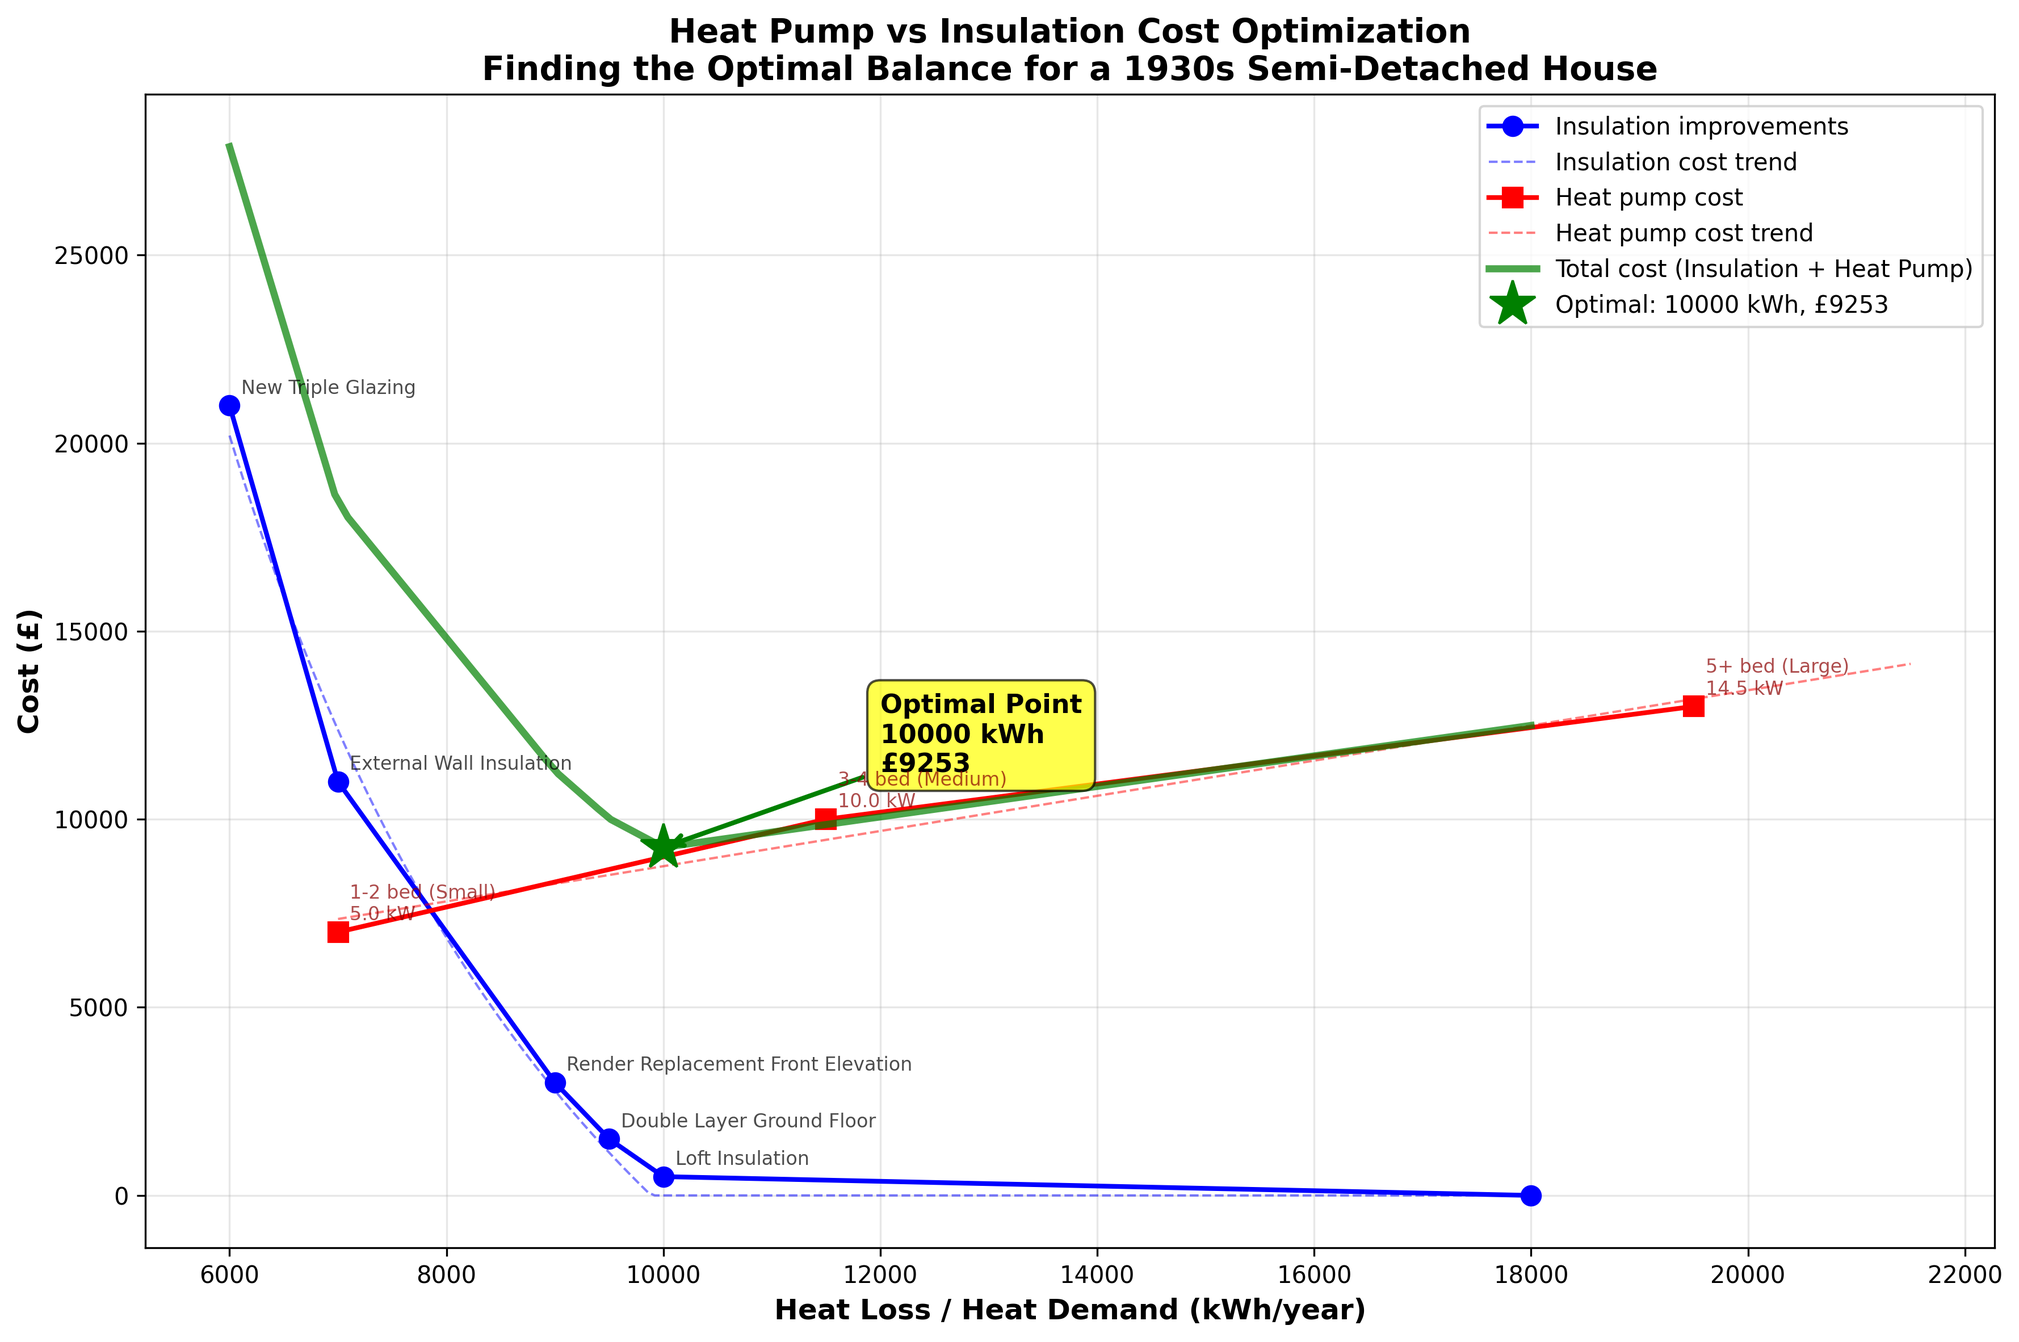
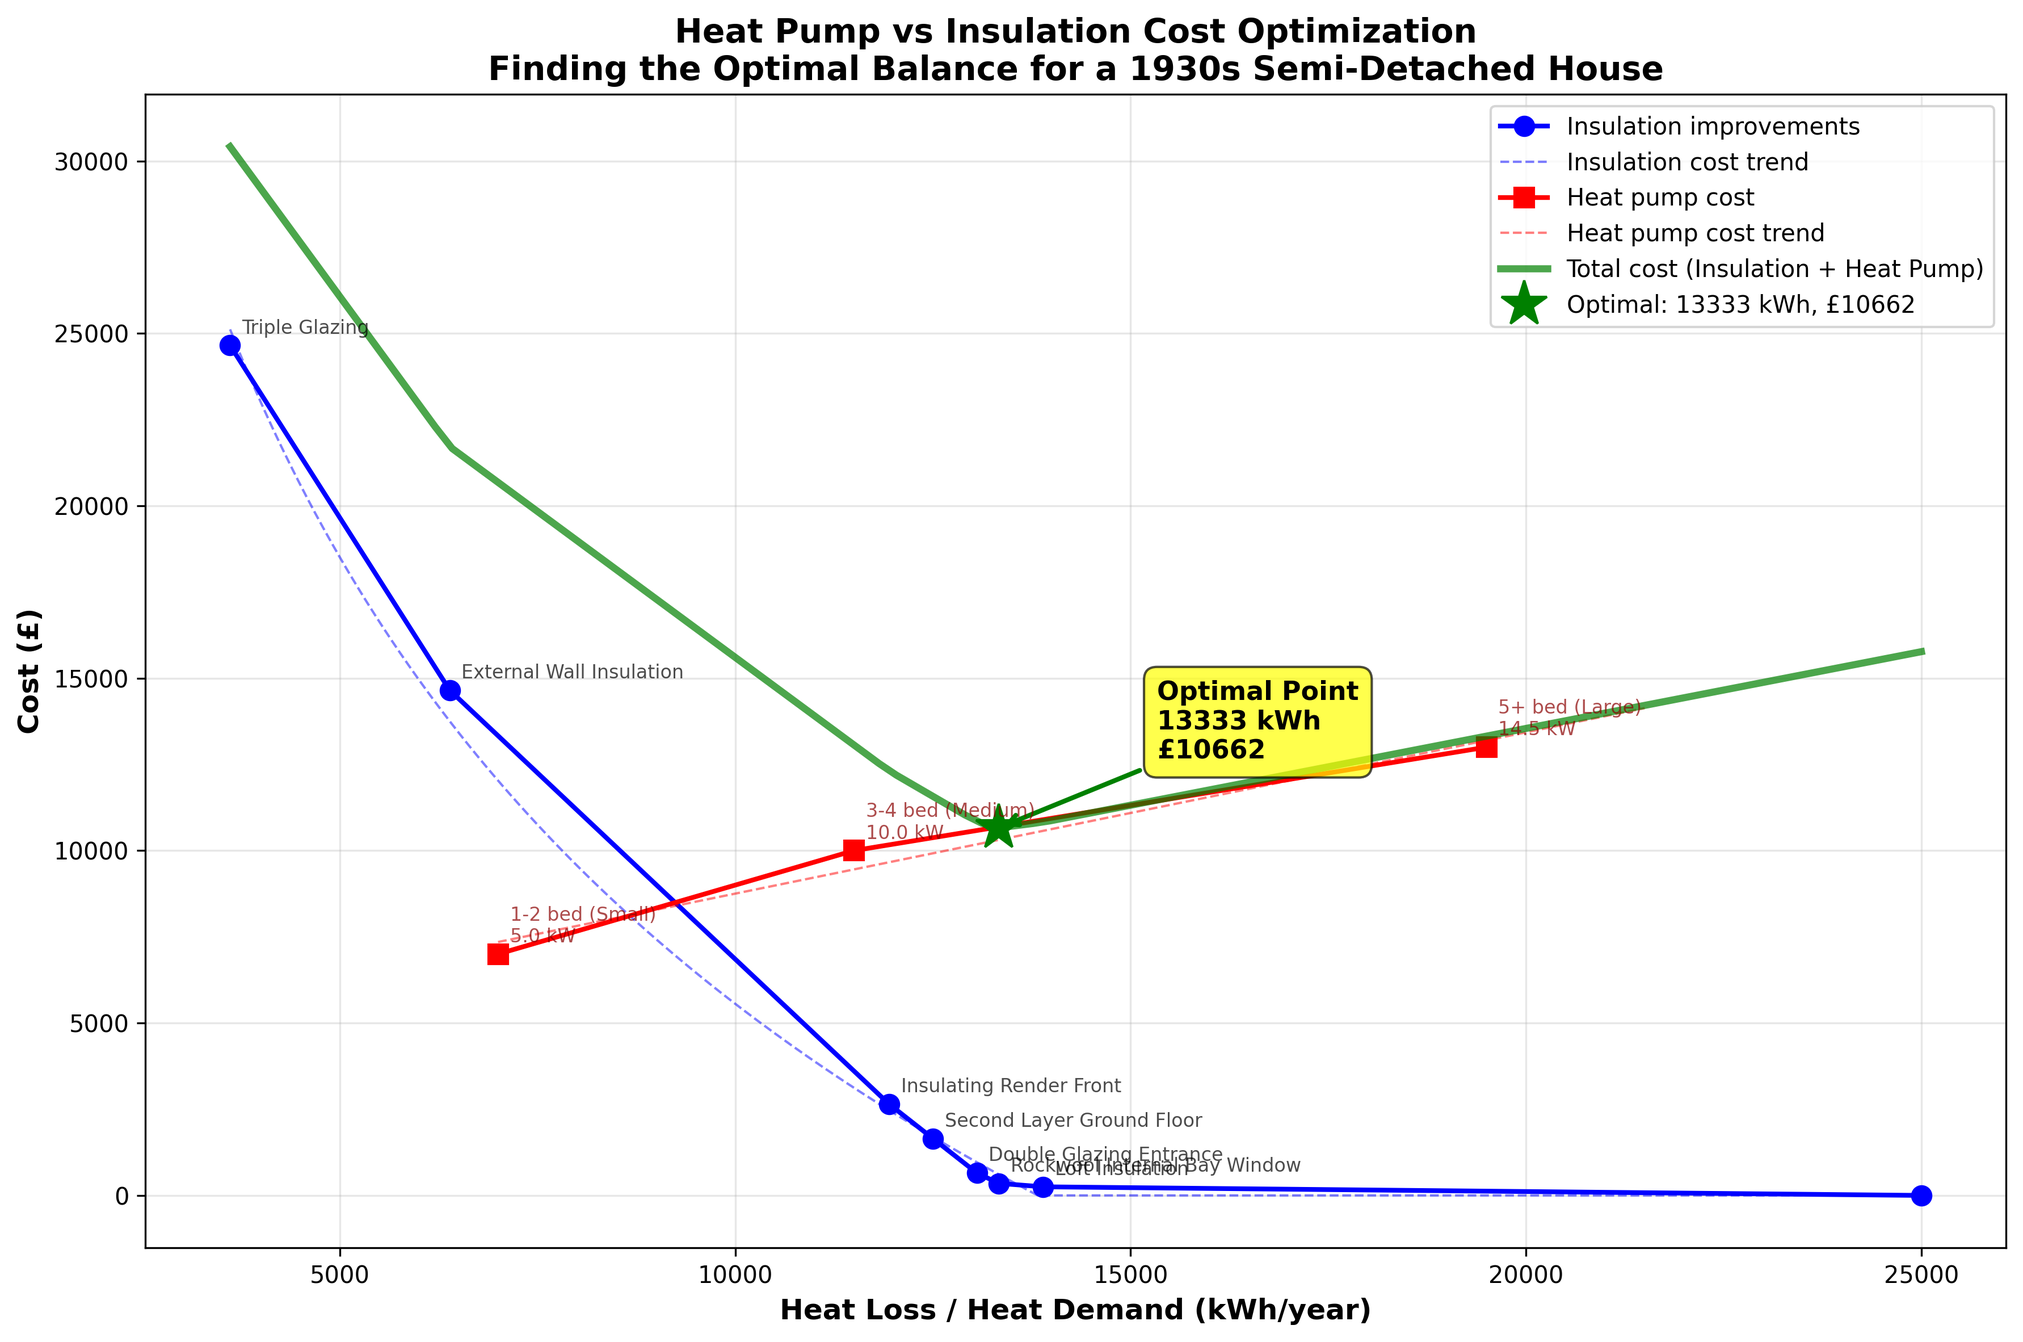
Updated home improvements and units

diff --git a/src/heat_pump_cost/cost_calculator.py b/src/heat_pump_cost/cost_calculator.py
@@ -8,7 +8,20 @@ from scipy.optimize import curve_fit
 
 
 class CostCalculator:
-    """Calculate optimal costs for heat pump and insulation investments."""
+    """Calculate optimal costs for heat pump and insulation investments.
+    
+    Constants:
+        DESIGN_HEAT_LOSS_W: Design heat loss in Watts (21°C inside, 2°C outside)
+        ACTUAL_ANNUAL_KWH: Actual annual heating consumption in kWh/year
+        WATTS_TO_KWH_YEAR: Empirical conversion factor (≈2.778)
+        MIN_HEAT_LOSS_KWH: Minimum heat loss (hot water, ventilation, etc.)
+    """
+    
+    # Empirical conversion factor: 9000W design → 25000 kWh/year actual
+    DESIGN_HEAT_LOSS_W = 9000
+    ACTUAL_ANNUAL_KWH = 25000
+    WATTS_TO_KWH_YEAR = ACTUAL_ANNUAL_KWH / DESIGN_HEAT_LOSS_W  # ≈ 2.778
+    MIN_HEAT_LOSS_KWH = 1000  # Minimum heat loss (hot water, ventilation, etc.)
     
     def __init__(self, initial_heat_loss: float, 
                  heat_pumps_csv: str, 
@@ -40,20 +53,35 @@ class CostCalculator:
         return heat_pumps
     
     def _load_improvements(self, csv_path: str) -> List[Dict]:
-        """Load home improvement data from CSV file."""
+        """Load home improvement data from CSV file and sort by cost-effectiveness.
+        
+        Reads heat loss reduction in Watts (at design conditions: 21°C inside, 2°C outside),
+        converts to kWh/year using empirically-derived factor, and sorts by heat reduction per pound.
+        """
         improvements = []
+        
         with open(csv_path, 'r') as f:
             reader = csv.DictReader(f)
             for row in reader:
+                # Convert Watts to kWh/year using empirical factor
+                heat_reduction_w = float(row['heat_loss_reduction_watt'])
+                heat_reduction_kwh_year = heat_reduction_w * self.WATTS_TO_KWH_YEAR
+                
                 improvements.append({
                     'description': row['description'],
                     'cost_gbp': float(row['cost_gbp']),
-                    'heat_reduction_kwh': float(row['heat_reduction_kwh'])
+                    'heat_reduction_kwh': heat_reduction_kwh_year,
+                    'cost_effectiveness': heat_reduction_w / float(row['cost_gbp'])
                 })
+        
+        # Sort by cost-effectiveness (W per £) in descending order
+        improvements.sort(key=lambda x: x['cost_effectiveness'], reverse=True)
         return improvements
     
     def calculate_insulation_costs(self) -> Tuple[List[float], List[float]]:
         """Calculate accumulated insulation costs and remaining heat loss.
+        
+        Ensures heat loss doesn't go below 1000 kWh/year (minimum for hot water).
         
         Returns:
             Tuple of (heat_loss_values, insulation_cost_values)
@@ -67,8 +95,17 @@ class CostCalculator:
         for improvement in self.improvements:
             cumulative_cost += improvement['cost_gbp']
             cumulative_reduction += improvement['heat_reduction_kwh']
+            
+            # Ensure we don't reduce heat loss below minimum
+            remaining_heat_loss = max(self.MIN_HEAT_LOSS_KWH, 
+                                     self.initial_heat_loss - cumulative_reduction)
+            
+            # Stop if we've already reached minimum heat loss
+            if heat_loss[-1] <= self.MIN_HEAT_LOSS_KWH:
+                break
+                
             insulation_cost.append(cumulative_cost)
-            heat_loss.append(self.initial_heat_loss - cumulative_reduction)
+            heat_loss.append(remaining_heat_loss)
         
         return heat_loss, insulation_cost
     

diff --git a/src/heat_pump_cost/cli.py b/src/heat_pump_cost/cli.py
@@ -13,7 +13,7 @@ def main():
         formatter_class=argparse.RawDescriptionHelpFormatter,
         epilog="""
 Examples:
-  # Run with default settings (18,000 kWh initial heat loss)
+  # Run with default settings (25,000 kWh initial heat loss, 15p/kWh electricity)
   heat-pump-cost
 
   # Specify custom initial heat loss
@@ -33,8 +33,8 @@ Examples:
     parser.add_argument(
         '--initial-heat-loss',
         type=float,
-        default=18000,
-        help='Initial annual heat loss in kWh (default: 18000)'
+        default=25000,
+        help='Initial annual heat loss in kWh (default: 25000)'
     )
     
     parser.add_argument(

diff --git a/article.md b/article.md
@@ -13,7 +13,7 @@ We consider a 1930s semi-detached house, approximately 80m², in its original sh
 - Basic double glazing
 - No loft insulation
 
-The estimated heat loss over an entire year in Cambridge is approximately **18,000 kWh**. We analyze various improvement strategies including loft insulation, floor insulation, wall rendering, external wall insulation, and triple glazing.
+The estimated heat loss over an entire year for our house was estimated to be approximately **25,000 kWh** without any insulation (at the time of purchase). The estimated heat loss at standard conditions (21°C inside, 2°C outside) was also estimated to be **9,000 W**. This gives us an empirical conversion factor of approximately **2.78** for converting design heat loss (in Watts) to annual heating energy (in kWh/year), accounting for actual weather patterns and heating usage throughout the year.
 
 ### Heat Pump Options
 
@@ -27,15 +27,19 @@ The analysis considers three heat pump sizes suitable for different property typ
 
 ### Home Improvement Options
 
-The following insulation improvements are considered, with their associated costs and heat reduction benefits:
+The following insulation improvements are considered, sorted by cost-effectiveness (Watts of heat reduction per pound spent). The heat loss reductions are given at design conditions (21°C inside, 2°C outside) and converted to annual energy savings using the empirical factor:
 
-| Improvement | Cost (£) | Heat Reduction (kWh/year) |
-|-------------|----------|---------------------------|
-| Loft insulation | £500 | 8,000 |
-| Double layer ground floor | £1,000 | 500 |
-| Render replacement front elevation | £1,500 | 500 |
-| External wall insulation | £8,000 | 2,000 |
-| New triple glazing | £10,000 | 1,000 |
+| Improvement | Cost (£) | Heat Loss Reduction (W) | Annual Energy Saving (kWh/year) | Cost-Effectiveness (W/£) |
+|-------------|----------|------------------------|--------------------------------|------------------------|
+| Loft insulation | £250 | 4,000 | 11,111 | 16.0 |
+| Rockwool internal bay window | £100 | 200 | 556 | 2.0 |
+| Double glazing entrance | £300 | 100 | 278 | 0.33 |
+| Second layer ground floor | £1,000 | 200 | 556 | 0.20 |
+| Insulating render front | £1,000 | 200 | 556 | 0.20 |
+| External wall insulation | £12,000 | 2,000 | 5,556 | 0.17 |
+| Triple glazing | £10,000 | 1,000 | 2,778 | 0.10 |
+
+Improvements are applied in order of cost-effectiveness, ensuring the most efficient measures are implemented first. The total cost is cummulative.
 
 ### Analysis Scenarios
 
@@ -55,21 +59,21 @@ When considering only the upfront capital costs of installation, the analysis re
 
 ![Capital costs without grant](assets/heat_pump_1_no_grant_capital_only.png)
 
-Without any government support, the optimal approach requires a total capital investment of **£9,253**. This consists of:
-- **£500** for loft insulation (reducing heat loss from 18,000 to 10,000 kWh/year)
-- **£8,753** for a single heat pump installation
+Without any government support, the optimal approach requires a total capital investment of **£10,662**. This consists of:
+- **£350** for insulation (loft insulation + rockwool bay window, reducing heat loss from 25,000 to 13,333 kWh/year)
+- **£10,312** for a single heat pump installation
 
-The analysis shows that minimal insulation investment (loft only) combined with a moderately-sized heat pump represents the most cost-effective solution when considering capital costs alone.
+The analysis shows that implementing the two most cost-effective improvements combined with a moderately-sized heat pump represents the most cost-effective solution when considering capital costs alone.
 
 ### Scenario 2: With £7,500 Government Grant
 
 ![Capital costs with grant](assets/heat_pump_2_with_grant_capital_only.png)
 
-The UK's Boiler Upgrade Scheme provides a £7,500 grant towards heat pump installation. With this support, the total capital cost reduces to **£1,753**:
-- **£500** for loft insulation
-- **£1,253** for heat pump (after £7,500 grant deduction)
+The UK's Boiler Upgrade Scheme provides a £7,500 grant towards heat pump installation. With this support, the total capital cost reduces to **£3,162**:
+- **£350** for insulation
+- **£2,812** for heat pump (after £7,500 grant deduction)
 
-Importantly, the optimal heat loss target remains unchanged at 10,000 kWh/year. The grant provides substantial financial relief but does not alter the optimal balance between insulation and heat pump capacity.
+Importantly, the optimal heat loss target remains unchanged at 13,333 kWh/year. The grant provides substantial financial relief but does not alter the optimal balance between insulation and heat pump capacity.
 
 ### Scenario 3: 50-Year Lifecycle (Two Heat Pumps)
 
@@ -79,15 +83,15 @@ Over a 50-year period, heat pumps typically need replacement after 20-25 years. 
 - First heat pump with £7,500 grant
 - Second heat pump at full cost (no grant)
 
-Total 50-year capital expenditure: **£10,505**
-- **£500** for insulation (one-time investment lasting 50 years)
-- **£10,005** for two heat pumps (net of one £7,500 grant)
+Total 50-year capital expenditure: **£13,474**
+- **£350** for insulation (one-time investment lasting 50 years)
+- **£13,124** for two heat pumps (net of one £7,500 grant)
 
 Even with the grant on the first unit, the 50-year capital cost exceeds the no-grant single-pump scenario, highlighting the importance of heat pump longevity and replacement costs.
 
 ### Key Insight: Capital Costs Only
 
-When considering capital costs alone, the optimal strategy in all three scenarios is identical: invest £500 in loft insulation to reduce heat loss to 10,000 kWh/year. The government grant provides significant immediate cost relief (£7,500 savings), but this benefit is partially offset by the second heat pump replacement cost over a 50-year timeframe.
+When considering capital costs alone, the optimal strategy in all three scenarios is identical: invest £350 in the two most cost-effective improvements (loft insulation and bay window insulation) to reduce heat loss to 13,333 kWh/year. The government grant provides significant immediate cost relief (£7,500 savings), but this benefit is partially offset by the second heat pump replacement cost over a 50-year timeframe.
 
 ## Capital and Operational Expenditure
 
@@ -99,11 +103,11 @@ The analysis changes dramatically when operational costs—specifically electric
 
 Including 25 years of electricity costs at £0.15/kWh transforms the cost picture:
 
-**Total lifecycle cost: £20,917**
-- Capital costs: £9,500
-- Runtime costs: **£11,665** (55.8% of total)
+**Total lifecycle cost: £26,059**
+- Capital costs: £11,453
+- Runtime costs: **£15,021** (57.7% of total)
 
-The runtime costs exceed the initial capital investment, demonstrating that operational expenses dominate long-term costs. Annual electricity consumption at the optimal point is approximately 3,111 kWh, costing £467 per year.
+The runtime costs now exceed the initial capital investment, demonstrating that operational expenses dominate long-term costs. The optimal heat loss shifts slightly to 12,901 kWh/year (requiring £928 in insulation). Annual electricity consumption at this optimal point is 4,006 kWh, costing £601 per year.
 
 ### Scenario 2: With Grant + 25 Years Runtime
 
@@ -111,11 +115,11 @@ The runtime costs exceed the initial capital investment, demonstrating that oper
 
 With the £7,500 grant and 25 years of operation:
 
-**Total lifecycle cost: £13,417**
-- Capital costs: £2,000
-- Runtime costs: **£11,665** (86.9% of total)
+**Total lifecycle cost: £18,559**
+- Capital costs: £3,953
+- Runtime costs: **£15,021** (80.9% of total)
 
-The grant dramatically reduces capital costs, but runtime costs remain unchanged. Runtime expenses now constitute an overwhelming 87% of total lifecycle costs, emphasizing that the grant primarily addresses the upfront barrier rather than long-term economics.
+The grant dramatically reduces capital costs, but runtime costs remain unchanged. Runtime expenses now constitute an overwhelming 81% of total lifecycle costs, emphasizing that the grant primarily addresses the upfront barrier rather than long-term economics.
 
 ### Scenario 3: 50-Year Lifecycle + Runtime
 
@@ -123,29 +127,20 @@ The grant dramatically reduces capital costs, but runtime costs remain unchanged
 
 The 50-year analysis with operational costs reveals a crucial finding:
 
-**Total lifecycle cost: £33,093**
-- Capital costs: £12,116
-- Runtime costs: **£21,086** (63.7% of total)
+**Total lifecycle cost: £36,284**
+- Capital costs: £21,083
+- Runtime costs: **£15,201** (41.9% of total)
 
-**Critical Discovery**: The optimal heat loss target shifts from 10,000 kWh/year to **9,030 kWh/year**. This means investing approximately **£2,909 in insulation** (instead of just £500) becomes economically justified.
+**Critical Discovery**: The optimal heat loss target shifts dramatically from 13,333 kWh/year to **6,420 kWh/year**. This means investing approximately **£14,583 in insulation** becomes economically justified—a massive increase from the £350 optimal for capital-only scenarios.
 
-Why? Over 50 years, the cumulative electricity savings from better insulation (reducing annual consumption from 3,111 kWh to 2,811 kWh) outweigh the higher upfront insulation costs. The additional £2,400 insulation investment saves approximately 300 kWh annually × 50 years × £0.15/kWh = £2,250 in electricity, nearly paying for itself.
-
-### Key Insight: Total Lifecycle Costs
-
-Runtime costs represent 56-87% of total lifecycle costs, fundamentally changing the optimization equation:
-
-- **Short-term (no runtime): "Heat Pump First"** - Minimal insulation combined with a heat pump is most cost-effective
-- **Long-term (50-year lifecycle): "Fabric First" becomes viable** - Increased insulation investment pays off through reduced operational costs
-
-The analysis demonstrates that the "fabric first vs heat pump first" debate has no single answer—it depends critically on the time horizon considered.
+Why? Over 50 years, the cumulative electricity savings from comprehensive insulation (reducing annual consumption from 4,006 kWh to 2,006 kWh) outweigh the higher upfront insulation costs. The additional £14,233 insulation investment saves approximately 2,000 kWh annually × 50 years × £0.15/kWh = £15,000 in electricity, more than paying for itself.
 
 ## Conclusion
 
-The "fabric first vs heat pump first" debate has no single answer—it depends critically on time horizon. When focusing solely on capital costs, minimal insulation (£500 loft insulation) combined with a heat pump is optimal. However, when operational costs are considered, the picture transforms: over 50 years, runtime costs dominate (63% of total), making increased insulation investment economically justified—optimal insulation spending increases six-fold from £500 to £2,909.
+The "fabric first vs heat pump first" debate has no single answer—it depends critically on time horizon and whether operational costs are included. Runtime costs represent 42-81% of total lifecycle costs, fundamentally changing the optimization equation. When focusing solely on capital costs, minimal insulation (£350) combined with a heat pump is optimal. However, when operational costs are considered over 50 years, optimal insulation spending increases **42-fold** to £14,583, reducing heat loss from 13,333 to 6,420 kWh/year—"Fabric First" becomes economically dominant for long-term ownership.
 
-For a 1930s semi-detached home, the sweet spot for long-term ownership (20+ years) is approximately £3,000 in insulation combined with a right-sized heat pump. Current policy, while effectively addressing upfront cost barriers through £7,500 heat pump grants, may inadvertently discourage optimal long-term investment in building fabric. A more balanced approach—split incentives covering both insulation and heat pumps, lifecycle cost education, and tiered grants for comprehensive improvements—would better align short-term decisions with long-term economic and environmental objectives.
+Current policy, while effectively addressing upfront cost barriers through £7,500 heat pump grants, may inadvertently discourage optimal long-term investment in building fabric. A more balanced approach—split incentives covering both insulation and heat pumps, lifecycle cost education, and tiered grants for comprehensive improvements—would better align short-term decisions with long-term economic and environmental objectives.
 
 ---
 
-*Analysis based on: 1930s semi-detached house (80m²), Cambridge climate, 18,000 kWh initial heat loss, £0.15/kWh electricity rate, £7,500 government grant (UK Boiler Upgrade Scheme)*
+*Analysis based on: 1930s semi-detached house (80m²), Cambridge climate, 25,000 kWh/year initial heat loss (9,000 W design heat loss), £0.15/kWh electricity rate, £7,500 government grant (UK Boiler Upgrade Scheme). Home improvements sorted by cost-effectiveness (W/£).*

diff --git a/README.md b/README.md
@@ -122,7 +122,7 @@ from cost_calculator import CostCalculator
 from plotter import CostPlotter
 
 calculator = CostCalculator(
-    initial_heat_loss=18000,
+    initial_heat_loss=25000,
     heat_pumps_csv="data/heat-pump-ratings.csv",
     improvements_csv="data/home-improvements.csv"
 )
